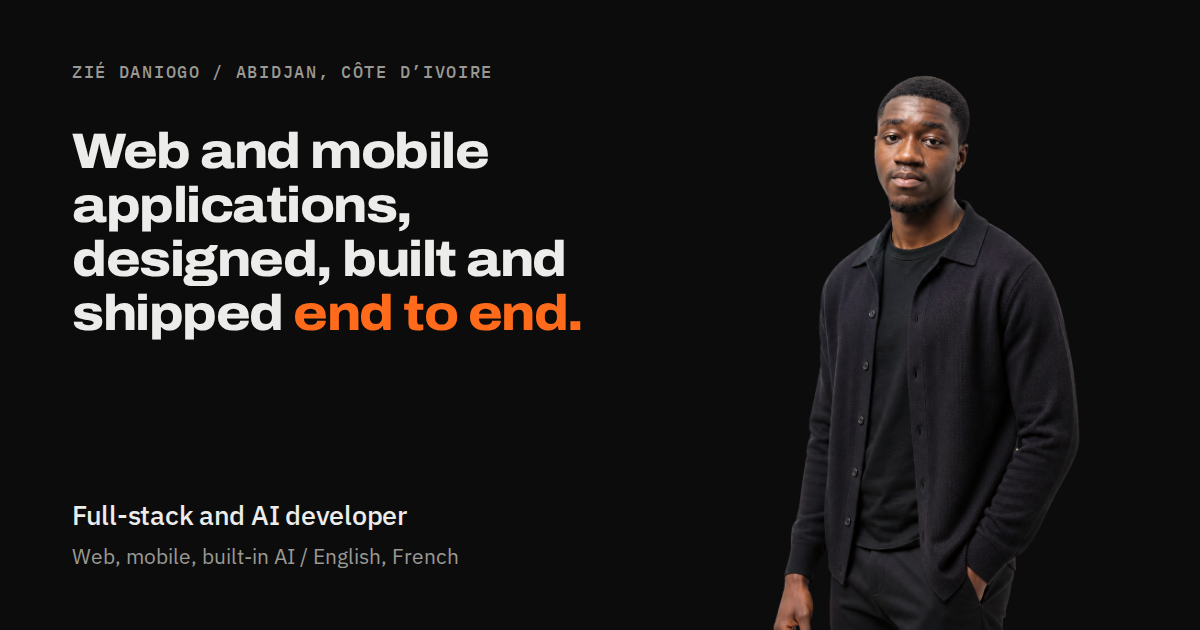
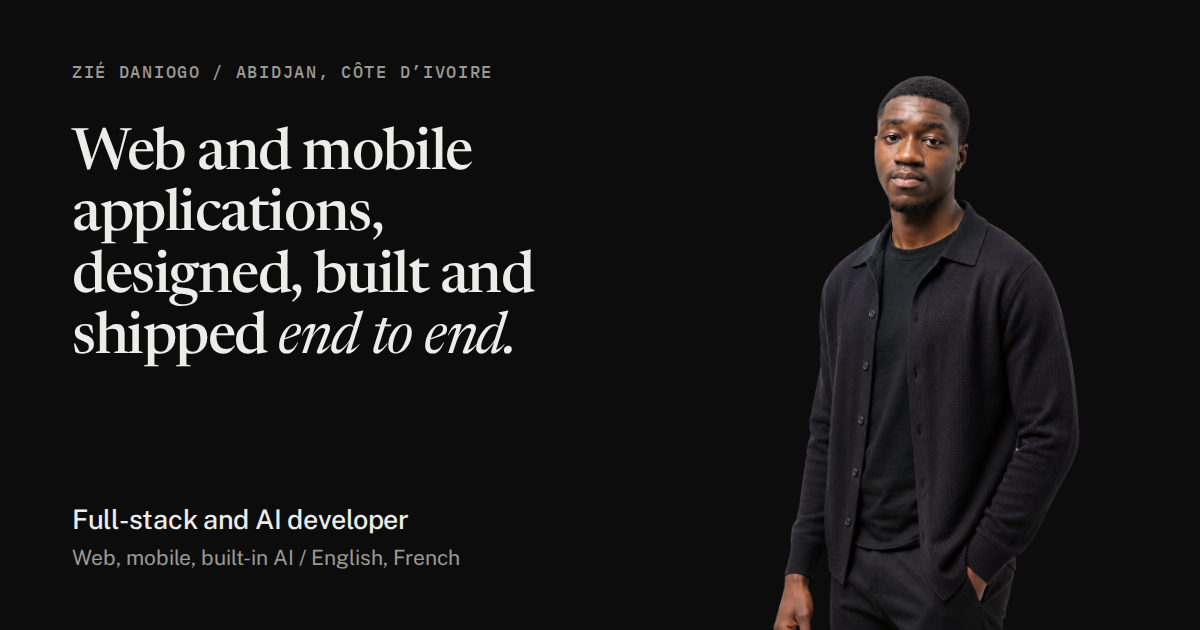
Typographie « Éditoriale » : Newsreader pour les titres, Public Sans, IBM Plex Mono
Titres en Newsreader 500 (taille optique automatique, -0.025em), mot mis en
valeur en Newsreader italique 400 dans la couleur du texte, texte courant en
Public Sans, étiquettes en IBM Plex Mono 500. Archivo et IBM Plex Sans quittent
le site, la page 404 et les images de partage (régénérées). Échelle des titres
agrandie pour la serif ; le grand nom du hero passe aussi en Newsreader.

diff --git a/app/globals.css b/app/globals.css
@@ -22,12 +22,11 @@
   --danger: #b42318;
   --hero-bg: #e6e3dc;
 
-  --font-display: var(--font-archivo), ui-sans-serif, system-ui, sans-serif;
-  --font-sans: var(--font-plex-sans), ui-sans-serif, system-ui, sans-serif;
+  --font-display: var(--font-newsreader), Georgia, "Times New Roman", serif;
+  --font-sans: var(--font-public-sans), ui-sans-serif, system-ui, sans-serif;
   --font-mono: var(--font-plex-mono), ui-monospace, "SFMono-Regular", monospace;
-  /* Titres : Archivo élargie, serrée. */
-  --display-stretch: 112%;
-  --display-tracking: -0.03em;
+  /* Titres : Newsreader 500, taille optique automatique, légèrement serrée. */
+  --display-tracking: -0.025em;
 
   --gutter: clamp(16px, 4vw, 56px);
   /* Marge réelle du contenu : la gouttière, ou plus si l’écran dépasse la largeur maximale. */
@@ -253,13 +252,20 @@ main:focus {
   margin-block: -0.14em -0.1em;
 }
 
+.word-mask:has(.word-em) {
+  padding-right: 0.12em;
+  margin-right: -0.12em;
+}
+
 .word {
   display: inline-block;
 }
 
-/* Le mot mis en valeur : même police, même graisse, dans la couleur d’accent. */
+/* Le mot mis en valeur : Newsreader italique 400, dans la couleur du texte. */
 .word-em {
-  color: var(--em-color, var(--accent-text));
+  font-family: var(--font-display);
+  font-style: italic;
+  font-weight: 400;
 }
 
 /* ==========================================================================
@@ -543,8 +549,7 @@ main:focus {
 .wordmark-name {
   font-size: 1rem;
   font-family: var(--font-display);
-  font-stretch: var(--display-stretch);
-  font-weight: 800;
+  font-weight: 500;
   letter-spacing: -0.02em;
 }
 
@@ -668,10 +673,9 @@ main:focus {
   align-items: baseline;
   gap: 16px;
   padding: 14px 0;
-  font-size: clamp(2rem, 9.5vw, 3.2rem);
+  font-size: clamp(2.3rem, 11vw, 3.6rem);
   font-family: var(--font-display);
-  font-stretch: var(--display-stretch);
-  font-weight: 800;
+  font-weight: 500;
   letter-spacing: var(--display-tracking);
   line-height: 1.05;
 }
@@ -781,10 +785,9 @@ main:focus {
 
 .section-title {
   max-width: 16ch;
-  font-size: clamp(2rem, min(1rem + 3.3vw, 0.9rem + 5.6svh), 4.4rem);
+  font-size: clamp(2.4rem, min(1.15rem + 3.9vw, 1rem + 6.6svh), 5.2rem);
   font-family: var(--font-display);
-  font-stretch: var(--display-stretch);
-  font-weight: 800;
+  font-weight: 500;
   line-height: 1.04;
   letter-spacing: var(--display-tracking);
   text-wrap: balance;
@@ -961,8 +964,7 @@ main:focus {
 .wordmark-name {
   font-size: 1rem;
   font-family: var(--font-display);
-  font-stretch: var(--display-stretch);
-  font-weight: 800;
+  font-weight: 500;
   letter-spacing: -0.02em;
 }
 
@@ -1023,12 +1025,10 @@ main:focus {
 
 /* Une légende, pas une affiche : le nom en bannière reste le seul grand texte de la scène. */
 .hero-title {
-  --em-color: var(--accent-text);
   max-width: 24ch;
-  font-size: clamp(1.45rem, 0.95rem + 2.2vw, 2.1rem);
+  font-size: clamp(1.65rem, 1.1rem + 2.4vw, 2.4rem);
   font-family: var(--font-display);
-  font-stretch: var(--display-stretch);
-  font-weight: 800;
+  font-weight: 500;
   line-height: 1.12;
   letter-spacing: var(--display-tracking);
   text-wrap: balance;
@@ -1097,9 +1097,8 @@ main:focus {
 .hero-banner-text {
   fill: var(--fg);
   font-family: var(--font-display);
-  font-stretch: var(--display-stretch);
-  font-weight: 800;
-  letter-spacing: -0.04em;
+  font-weight: 500;
+  letter-spacing: -0.03em;
   text-rendering: geometricPrecision;
   user-select: none;
 }
@@ -1205,7 +1204,7 @@ main:focus {
   .hero-title {
     grid-area: title;
     max-width: min(25ch, calc(50vw - var(--edge) - var(--portrait-h) * 0.19));
-    font-size: clamp(1.3rem, 0.5rem + 1.35vw, 2.15rem);
+    font-size: clamp(1.6rem, 0.65rem + 1.75vw, 2.7rem);
   }
 
   .hero-role {
@@ -1423,10 +1422,9 @@ main:focus {
 }
 
 .not-found h1 {
-  font-size: clamp(2.3rem, 1.05rem + 4.4vw, 5.2rem);
+  font-size: clamp(2.7rem, 1.25rem + 5.2vw, 6.2rem);
   font-family: var(--font-display);
-  font-stretch: var(--display-stretch);
-  font-weight: 800;
+  font-weight: 500;
   line-height: 1.02;
   letter-spacing: var(--display-tracking);
 }

diff --git a/app/sections.css b/app/sections.css
@@ -52,10 +52,9 @@
 /* Une phrase entière par scène : trois ou quatre lignes équilibrées. */
 .build-text {
   max-width: 36ch;
-  font-size: clamp(1.3rem, min(0.6rem + 1.5vw, 0.6rem + 2.8svh), 2.2rem);
+  font-size: clamp(1.55rem, min(0.72rem + 1.75vw, 0.72rem + 3.3svh), 2.6rem);
   font-family: var(--font-display);
-  font-stretch: var(--display-stretch);
-  font-weight: 800;
+  font-weight: 500;
   line-height: 1.14;
   letter-spacing: var(--display-tracking);
   text-wrap: balance;
@@ -155,11 +154,10 @@
 
 .method-title {
   /* Une phrase par ligne sur grand écran : la coupure est dans le texte. */
-  max-width: 31ch;
-  font-size: clamp(1.9rem, min(0.9rem + 2.6vw, 0.9rem + 4.7svh), 3.7rem);
+  max-width: 26ch;
+  font-size: clamp(2.3rem, min(1.05rem + 3.1vw, 1rem + 5.6svh), 4.4rem);
   font-family: var(--font-display);
-  font-stretch: var(--display-stretch);
-  font-weight: 800;
+  font-weight: 500;
   line-height: 1.05;
   letter-spacing: var(--display-tracking);
   text-wrap: balance;
@@ -312,10 +310,9 @@
 
 .profile-statement {
   margin-top: 28px;
-  font-size: clamp(1.95rem, min(0.55rem + 4vw, 0.9rem + 6.1svh), 4.7rem);
+  font-size: clamp(2.3rem, min(0.65rem + 4.8vw, 1rem + 7.2svh), 5.6rem);
   font-family: var(--font-display);
-  font-stretch: var(--display-stretch);
-  font-weight: 800;
+  font-weight: 500;
   line-height: 1.04;
   letter-spacing: var(--display-tracking);
   text-wrap: balance;
@@ -361,10 +358,9 @@
 }
 
 .figures strong {
-  font-size: clamp(2.3rem, 1.35rem + 2.3vw, 3.7rem);
+  font-size: clamp(2.8rem, 1.6rem + 2.8vw, 4.5rem);
   font-family: var(--font-display);
-  font-stretch: var(--display-stretch);
-  font-weight: 800;
+  font-weight: 500;
   font-variant-numeric: tabular-nums;
   line-height: 1;
   letter-spacing: var(--display-tracking);
@@ -436,11 +432,9 @@
 
 /* Deux lignes : la question, puis l’invitation. Le corps laisse la question tenir sur sa ligne. */
 .contact-title {
-  --em-color: var(--accent-text);
-  font-size: clamp(2.1rem, 0.7rem + 3.7vw, 4.9rem);
+  font-size: clamp(2.5rem, 0.85rem + 4.4vw, 5.8rem);
   font-family: var(--font-display);
-  font-stretch: var(--display-stretch);
-  font-weight: 800;
+  font-weight: 500;
   line-height: 1.02;
   letter-spacing: var(--display-tracking);
   text-wrap: balance;

diff --git a/app/[lang]/layout.tsx b/app/[lang]/layout.tsx
@@ -1,22 +1,23 @@
 import type { Metadata, Viewport } from "next";
-import { Archivo, IBM_Plex_Mono, IBM_Plex_Sans } from "next/font/google";
+import { IBM_Plex_Mono, Newsreader, Public_Sans } from "next/font/google";
 import { notFound } from "next/navigation";
 import "../globals.css";
 import "../sections.css";
 import { isLocale, locales, person, siteUrl } from "../data/site";
 
-// Titres : Archivo élargie (axe wdth), en 800. Le mot mis en valeur passe par la couleur d’accent.
-const display = Archivo({
+// Titres : Newsreader 500 (axe opsz). Le mot mis en valeur en italique 400, couleur du texte.
+const display = Newsreader({
   subsets: ["latin"],
-  axes: ["wdth"],
-  variable: "--font-archivo",
+  style: ["normal", "italic"],
+  axes: ["opsz"],
+  variable: "--font-newsreader",
   display: "swap",
 });
 
 // Texte courant.
-const sans = IBM_Plex_Sans({
+const sans = Public_Sans({
   subsets: ["latin"],
-  variable: "--font-plex-sans",
+  variable: "--font-public-sans",
   display: "swap",
 });
 

diff --git a/app/global-not-found.tsx b/app/global-not-found.tsx
@@ -1,10 +1,10 @@
 import type { Metadata } from "next";
-import { Archivo, IBM_Plex_Mono, IBM_Plex_Sans } from "next/font/google";
+import { IBM_Plex_Mono, Newsreader, Public_Sans } from "next/font/google";
 import Link from "next/link";
 import "./globals.css";
 
-const display = Archivo({ subsets: ["latin"], axes: ["wdth"], variable: "--font-archivo", display: "swap" });
-const sans = IBM_Plex_Sans({ subsets: ["latin"], variable: "--font-plex-sans", display: "swap" });
+const display = Newsreader({ subsets: ["latin"], style: ["normal", "italic"], axes: ["opsz"], variable: "--font-newsreader", display: "swap" });
+const sans = Public_Sans({ subsets: ["latin"], variable: "--font-public-sans", display: "swap" });
 const mono = IBM_Plex_Mono({ subsets: ["latin"], weight: "500", variable: "--font-plex-mono", display: "swap", preload: false });
 
 export const metadata: Metadata = {
